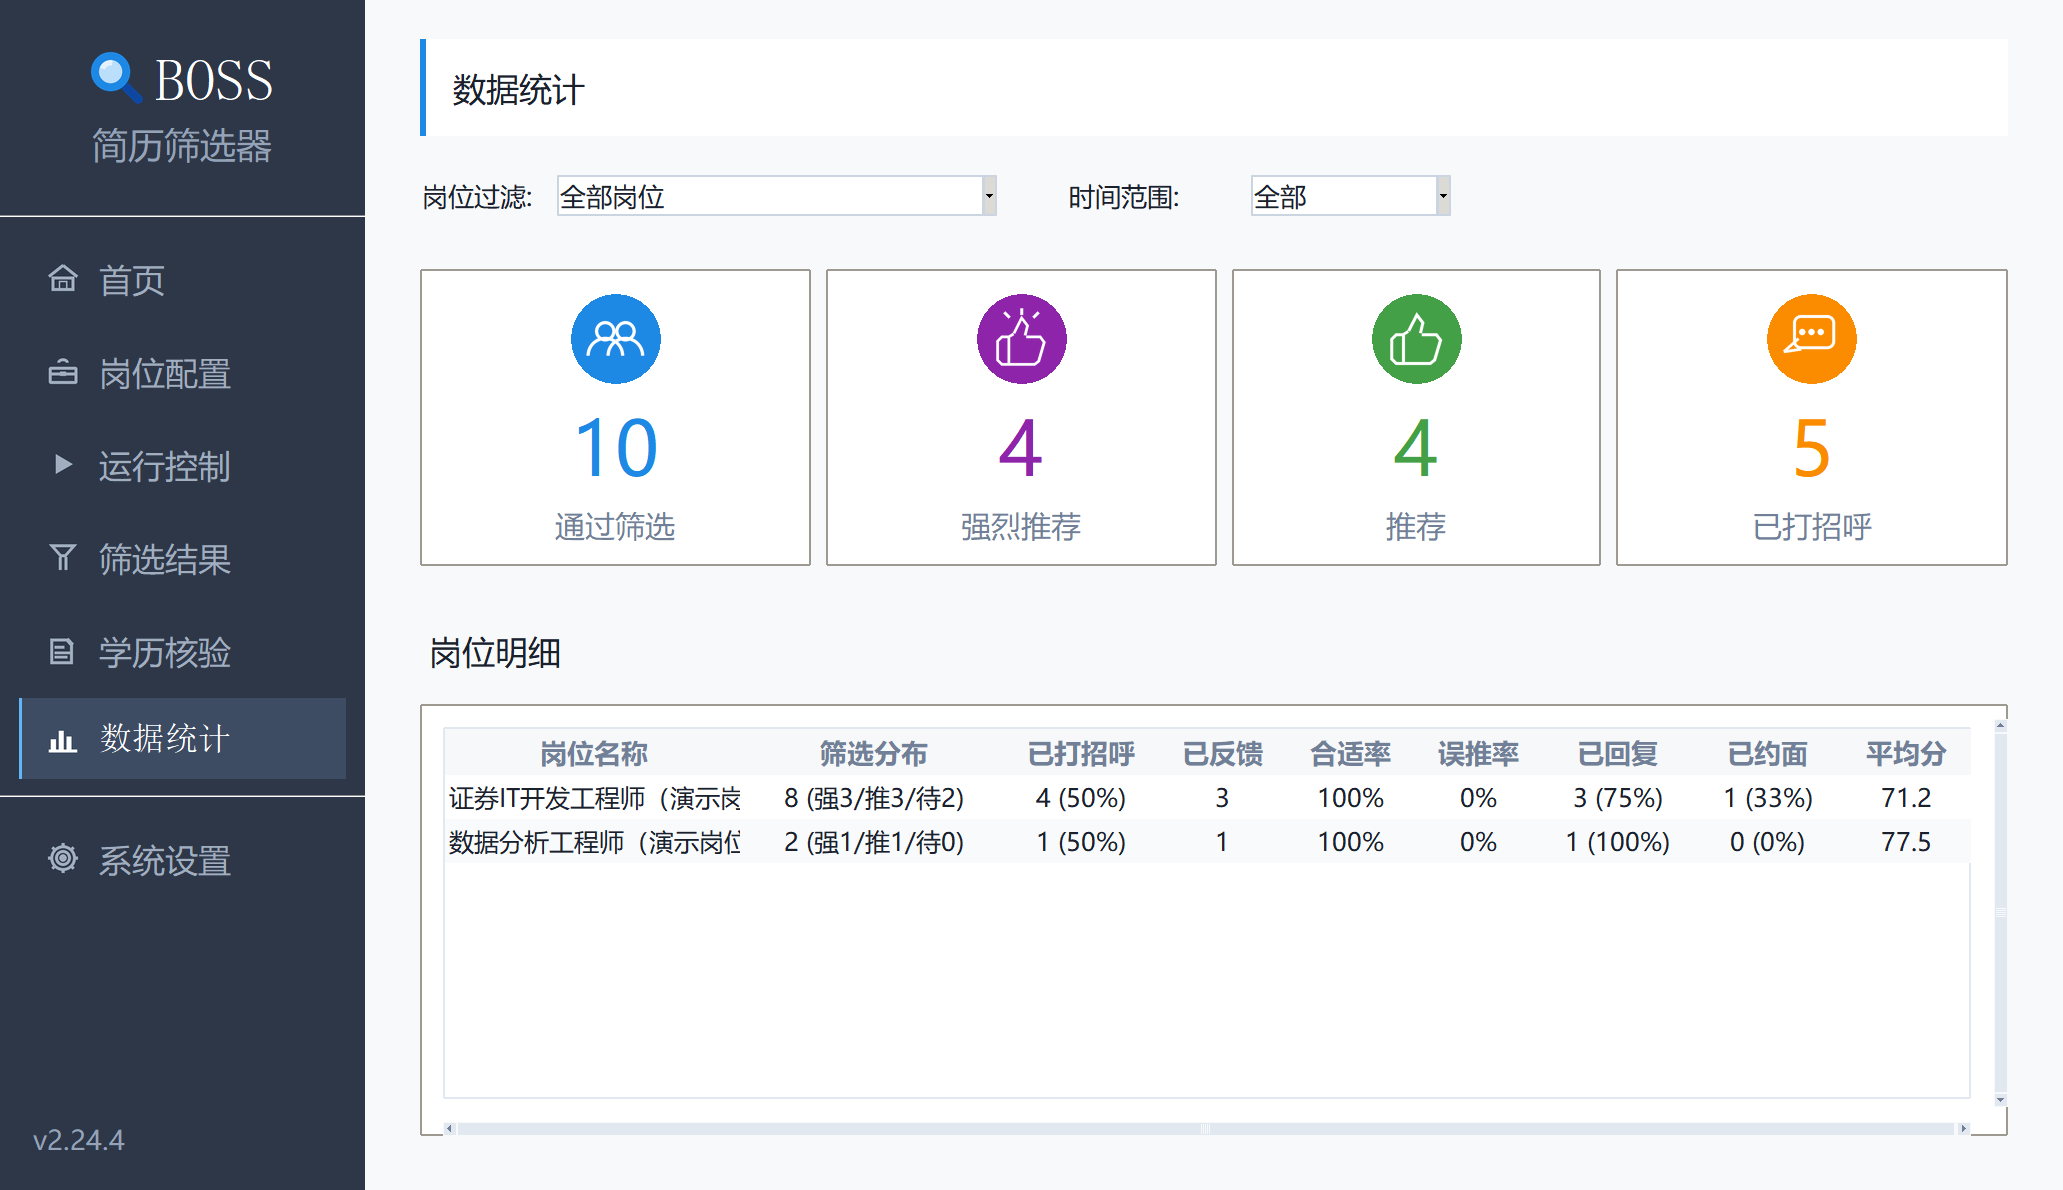
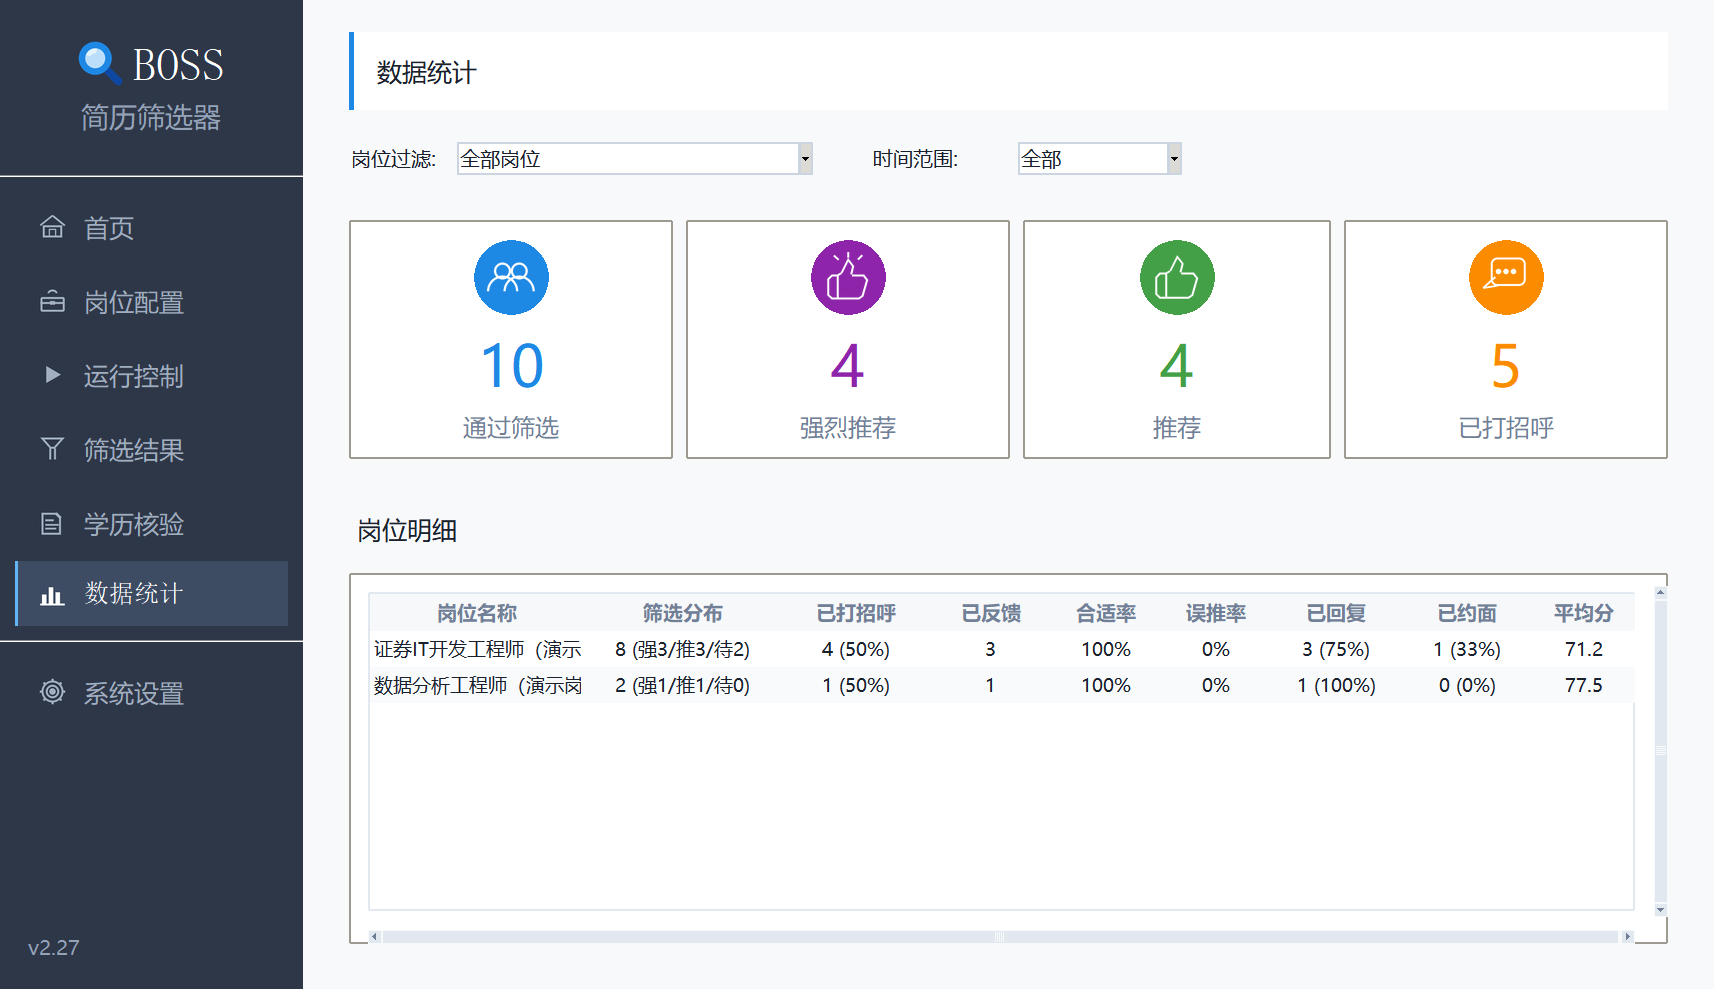
docs: 更新 v2.27 图文使用说明

diff --git a/docs/assets/user-guide/generate_user_guide_screenshots.py b/docs/assets/user-guide/generate_user_guide_screenshots.py
@@ -6,6 +6,7 @@ depend on local real candidate records.
 from __future__ import annotations
 
 import json
+import os
 import sys
 import time
 from datetime import datetime, timedelta
@@ -13,6 +14,12 @@ from pathlib import Path
 
 import tkinter as tk
 from PIL import Image, ImageGrab
+
+
+# Keep screenshot generation isolated from the user's runtime data and updater.
+os.environ["BOSS_RESUME_FILTER_DISABLE_DATA_MIGRATION"] = "1"
+os.environ["BOSS_RESUME_FILTER_DISABLE_GUARD_PERSISTENCE"] = "1"
+os.environ["BOSS_RESUME_FILTER_DISABLE_STARTUP_UPDATE"] = "1"
 
 
 ROOT = Path(__file__).resolve().parents[3]
@@ -55,6 +62,7 @@ DEMO_API_CONFIG = {
 DEMO_JOB_RULE = {
     "min_exp": 4,
     "edu": "本科",
+    "gender": "不限",
     "max_age": 38,
     "work_location": "南京/上海",
     "salary_min": 18,
@@ -78,7 +86,7 @@ DEMO_JOB_RULE = {
     "original_requirement": (
         "岗位：证券IT开发工程师（演示岗位）\n"
         "职位描述：负责证券业务系统设计、开发与优化。\n"
-        "必要条件：统招本科，4年以上 Java 开发经验，熟悉 Spring Cloud、"
+        "必要条件：统招本科，性别不限，4年以上 Java 开发经验，熟悉 Spring Cloud、"
         "MySQL、Redis 和微服务架构；具备债券、基金、期货、期权任一金融投资行业经验。\n"
         "优先条件：证券行业经验、高并发系统经验优先。"
     ),
@@ -107,6 +115,7 @@ def _candidate(index: int, score: int, *, job: str = DEMO_JOB, greeted: bool = F
             "exp_years": 4 + index % 5,
             "salary": "20-25K",
             "education": "本科",
+            "gender": "男" if index % 2 else "女",
             "city": "南京",
             "job_status": "在职-考虑机会",
         },
@@ -314,10 +323,14 @@ def main() -> None:
 
     app.show_page_api()
     capture_widget(root, "03-api-config-full.png")
+    app.api_canvas.yview_moveto(1.0)
+    capture_widget(root, "03-data-maintenance.png")
+    app.api_canvas.yview_moveto(0.0)
 
     app.show_page_run()
     app.job_combo["values"] = ["全部岗位", DEMO_JOB]
     app.job_combo.set(DEMO_JOB)
+    app.scan_advanced_toggle_label.event_generate("<Button-1>")
     app.run_canvas.yview_moveto(0.0)
     capture_widget(root, "04-run-full.png")
 
@@ -380,11 +393,11 @@ def main() -> None:
         root,
         {
             "current": gui_main.__version__,
-            "latest": "2.25",
+            "latest": "2.28",
             "update_type": "version",
             "changelog_body": (
                 "### 新增功能\n\n"
-                "- 演示新版功能说明。\n\n"
+                "- 新增候选人处理能力。\n\n"
                 "### 体验优化\n\n"
                 "- 优化候选人处理流程和界面提示。"
             ),
